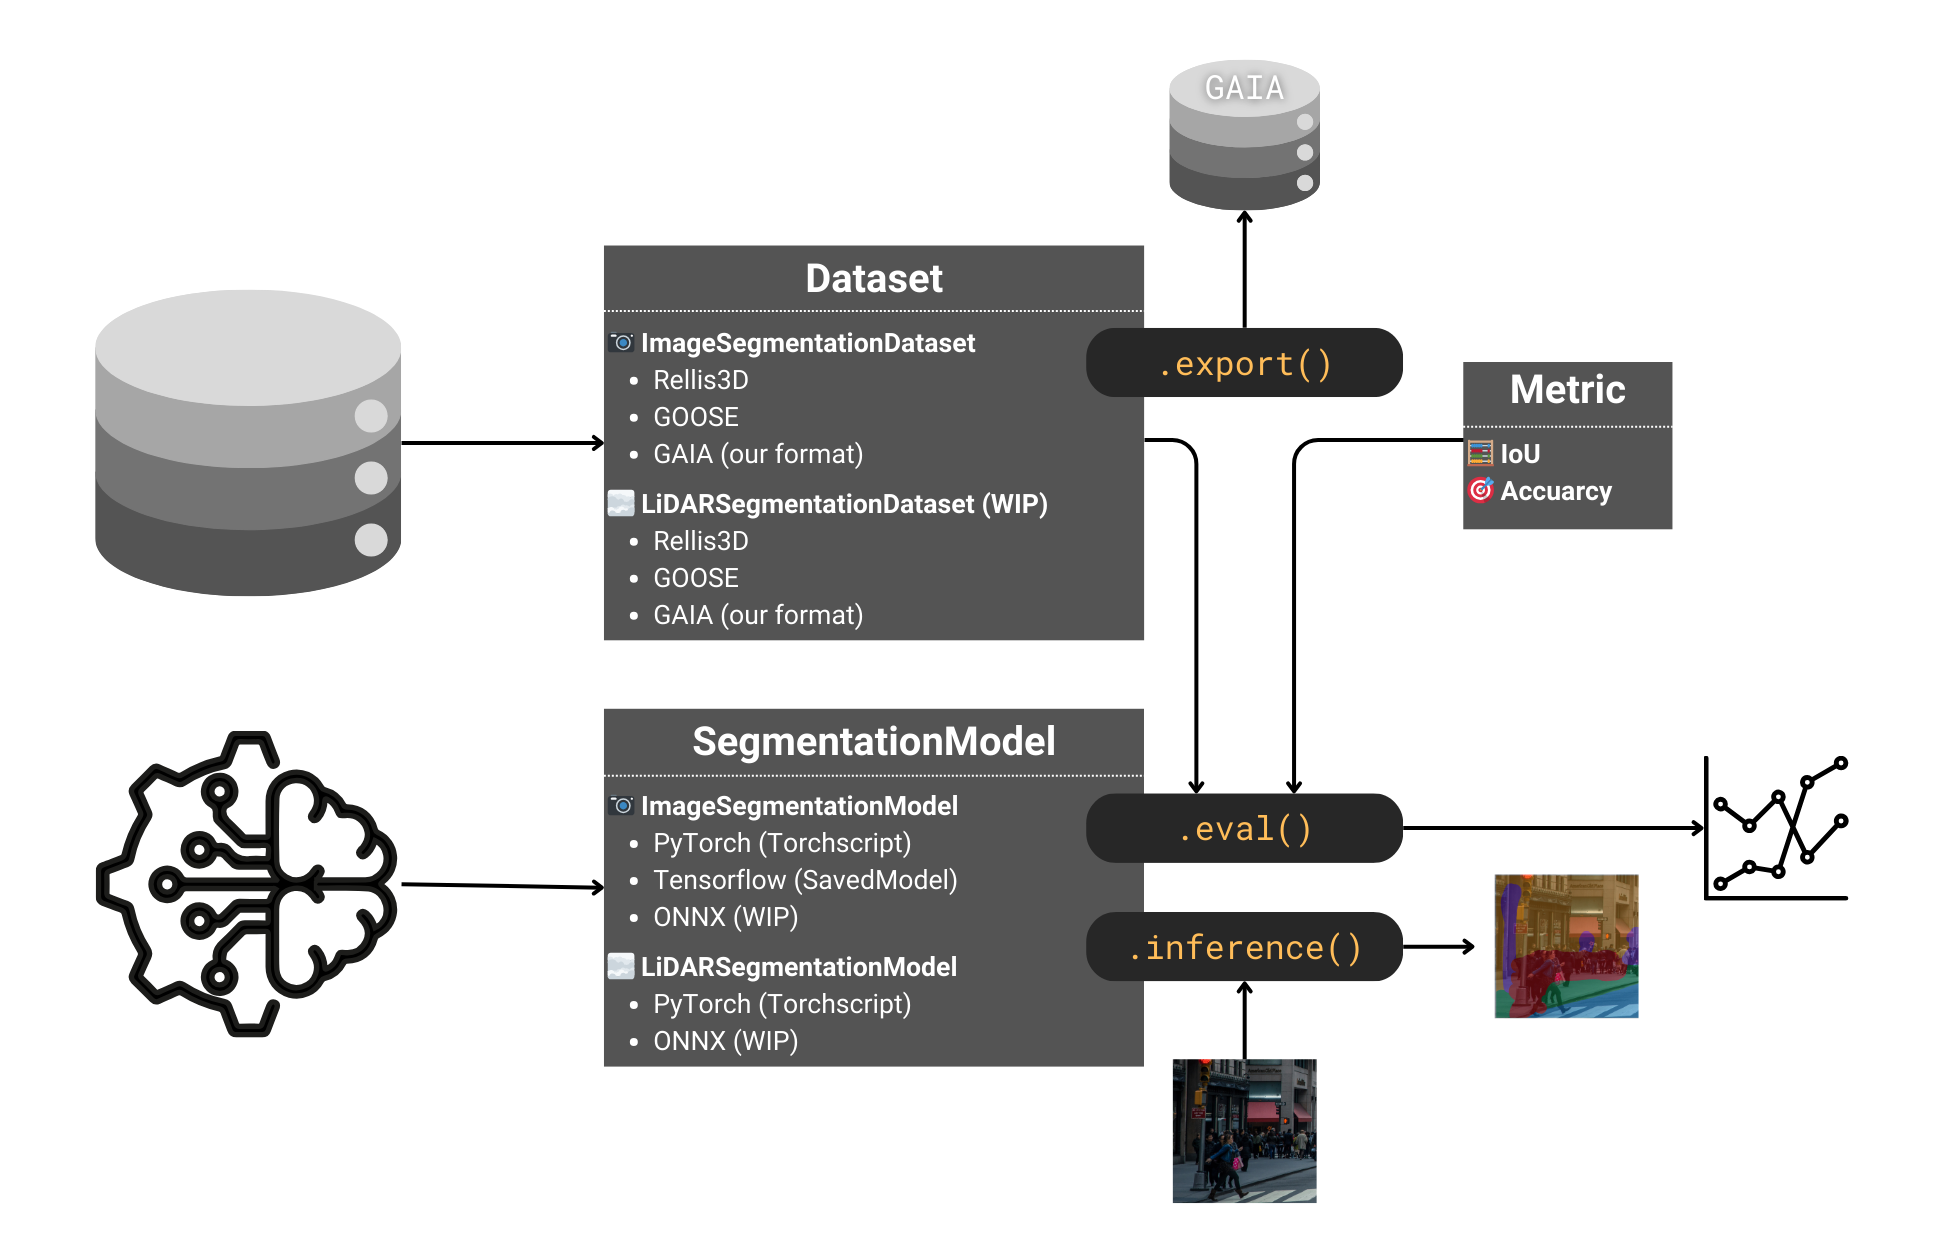
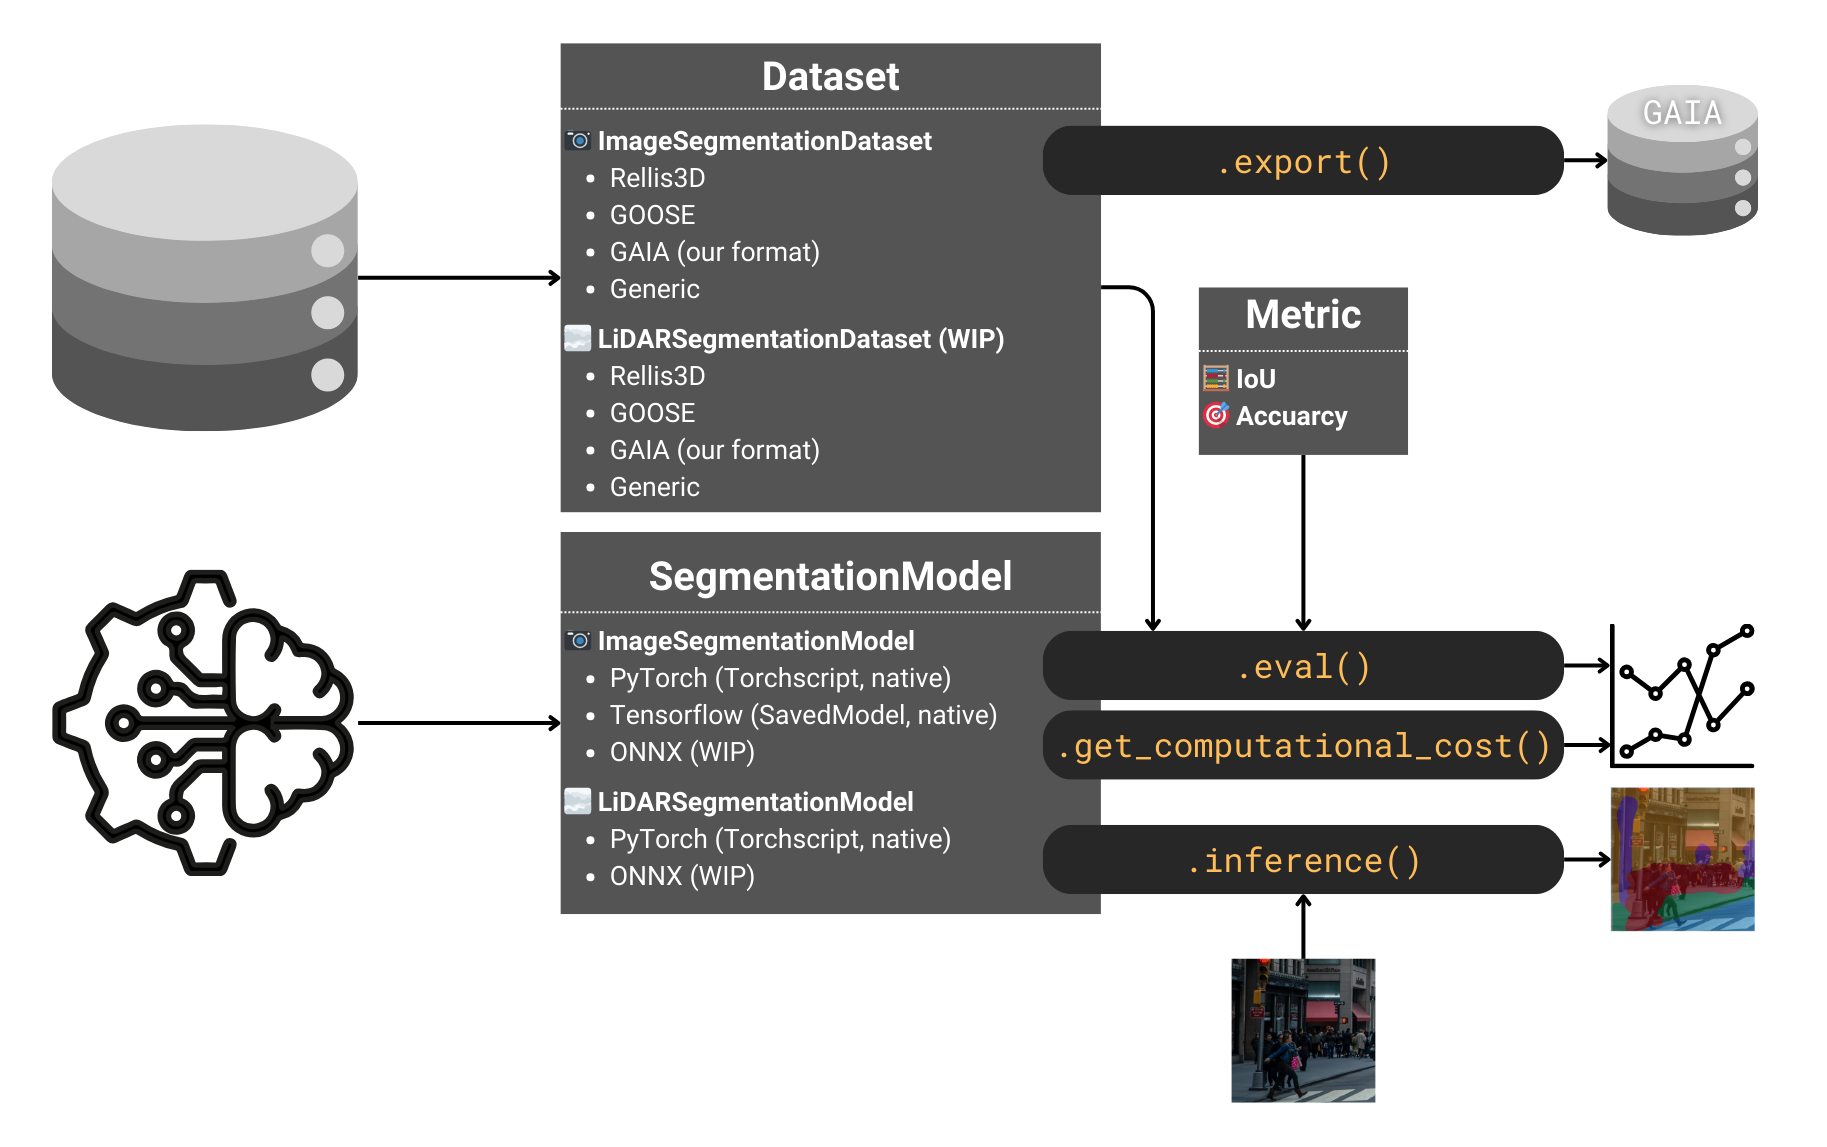
Update README and web

diff --git a/docs/_pages/v2/compatibility.md b/docs/_pages/v2/compatibility.md
@@ -9,11 +9,12 @@ sidebar:
 
 ## Image semantic segmentation
 - Datasets:
-    - [Rellis3D](https://www.unmannedlab.org/research/RELLIS-3D)
-    - [GOOSE](https://goose-dataset.de/)
-    - Custom GAIA format
+    - **[Rellis3D](https://www.unmannedlab.org/research/RELLIS-3D)**
+    - **[GOOSE](https://goose-dataset.de/)**
+    - **Custom GAIA format**: *Parquet* file containing samples and labels relative paths and a JSON file with the dataset ontology.
+    - **Generic**: simply assumes a different directory per split, different suffixes for samples and labels, and a JSON file containing the dataset ontology.
 - Models:
-    - PyTorch ([TorchScript](https://pytorch.org/docs/stable/jit.html) format):
+    - **PyTorch ([TorchScript](https://pytorch.org/docs/stable/jit.html) compiled format and native modules)**:
         - Input shape: `(batch, channels, height, width)`
         - Output shape: `(batch, classes, height, width)`
         - JSON configuration file format:
@@ -27,7 +28,7 @@ sidebar:
             "batch_size": 4
         }
         ```
-    - Tensorflow ([SavedModel](https://www.tensorflow.org/guide/saved_mode`) format):
+    - **Tensorflow ([SavedModel](https://www.tensorflow.org/guide/saved_mode`) compiled format and native Tensorflow/Keras modules)**:
         - Input shape: `(batch, height, width, channels)`
         - Output shape: `(batch, height, width, classes)`
         - JSON configuration file format:
@@ -38,17 +39,18 @@ sidebar:
             "batch_size": 4
         }
         ```
-    - ONNX: coming soon
+    - **ONNX**: coming soon
 - Metrics:
     - Intersection over Union (IoU), Accuracy
 
 ## LiDAR semantic segmentation
 - Datasets:
-    - [Rellis3D](https://www.unmannedlab.org/research/RELLIS-3D)
-    - [GOOSE](https://goose-dataset.de/)
-    - Custom GAIA format
+    - **[Rellis3D](https://www.unmannedlab.org/research/RELLIS-3D)**
+    - **[GOOSE](https://goose-dataset.de/)**
+    - **Custom GAIA format**: *Parquet* file containing samples and labels relative paths and a JSON file with the dataset ontology.
+    - **Generic**: simply assumes a different directory per split, different suffixes for samples and labels, and a JSON file containing the dataset ontology.
 - Models:
-    - PyTorch ([TorchScript](https://pytorch.org/docs/stable/jit.html) format). Validated models: RandLA-Net and KPConv from [Open3D-ML](https://github.com/isl-org/Open3D-ML).
+    - **PyTorch ([TorchScript](https://pytorch.org/docs/stable/jit.html) compiled format and native modules)**. As of now, we have tested RandLA-Net and KPConv from [Open3D-ML](https://github.com/isl-org/Open3D-ML).
         - Input shape: defined by the `input_format` tag.
         - Output shape: `(num_points)`
         - JSON configuration file format:
@@ -78,7 +80,7 @@ sidebar:
             ]
         }
         ```
-    - ONNX: coming soon
+    - **ONNX**: coming soon
 - Metrics:
     - Intersection over Union (IoU), Accuracy
 

diff --git a/README.md b/README.md
@@ -41,7 +41,7 @@ Now, we're excited to introduce ***DetectionMetrics v2***! While retaining the f
   <tr>
     <td>LiDAR</td>
     <td>Rellis3D, GOOSE, custom GAIA format</td>
-    <td>PyTorch (RandLA-Net and KPConv from <a href="https://github.com/isl-org/Open3D-ML">Open3D-ML</a>)</td>  </tr>
+    <td>PyTorch (tested with RandLA-Net and KPConv from <a href="https://github.com/isl-org/Open3D-ML">Open3D-ML</a>)</td>  </tr>
   <tr>
     <td>Object detection</td>
     <td>Image</td>
@@ -51,7 +51,7 @@ Now, we're excited to introduce ***DetectionMetrics v2***! While retaining the f
 </tbody>
 </table>
 
-More details about the specific metrics and input/output formats required fow each framework are provided in the [Compatibility](/v2/compatibility) section in our webpage.
+More details about the specific metrics and input/output formats required fow each framework are provided in the [Compatibility](https://jderobot.github.io/DetectionMetrics/v2/compatibility/) section in our webpage.
 
 
 # Installation
@@ -100,7 +100,7 @@ As of now, *DetectionMetrics* can either be used as a Python library or as a com
 You can check the `examples` directory for inspiration. If you are using *poetry*, you can run the scripts provided either by activating the created environment using `poetry shell` or directly running `poetry run python examples/<some_python_script.py>`.
 
 ### Command-line interface
-DetectionMetrics currently provides a CLI with two commands, `dm_evaluate` and `dm_batch`. Thanks to the configuration in the `pyproject.toml` file, we can simply run `poetry install` from the root directory and use them without explicitly invoking the Python files. More details are provided in [DetectionMetrics website](https://jderobot.github.io/DetectionMetrics/v2/usage/cli).
+DetectionMetrics currently provides a CLI with two commands, `dm_evaluate` and `dm_batch`. Thanks to the configuration in the `pyproject.toml` file, we can simply run `poetry install` from the root directory and use them without explicitly invoking the Python files. More details are provided in [DetectionMetrics website](https://jderobot.github.io/DetectionMetrics/v2/usage/#command-line-interface).
 
 <h1 id="v1">DetectionMetrics v1</h1>
 
@@ -132,7 +132,7 @@ Our previous release, ***DetectionMetrics v1***, introduced a versatile suite fo
   doi = {10.3390/s22124575},
 }
 ```
-# How to Contribute 
+# How to Contribute
 _To make your first contribution, follow this [Guide](https://github.com/JdeRobot/DetectionMetrics/blob/master/CONTRIBUTING.md)._
 
 # Acknowledgements

diff --git a/docs/_pages/home.md b/docs/_pages/home.md
@@ -47,8 +47,7 @@ Now, we're excited to introduce ***DetectionMetrics v2***! While retaining the f
   <tr>
     <td>LiDAR</td>
     <td>Rellis3D, GOOSE, custom GAIA format</td>
-    <td>PyTorch (RandLA-Net from <a href="https://github.com/isl-org/Open3D-ML">Open3D-ML</a>)</td>
-  </tr>
+    <td>PyTorch (tested with RandLA-Net and KPConv from <a href="https://github.com/isl-org/Open3D-ML">Open3D-ML</a>)</td>  </tr>
   <tr>
     <td>Object detection</td>
     <td>Image</td>
